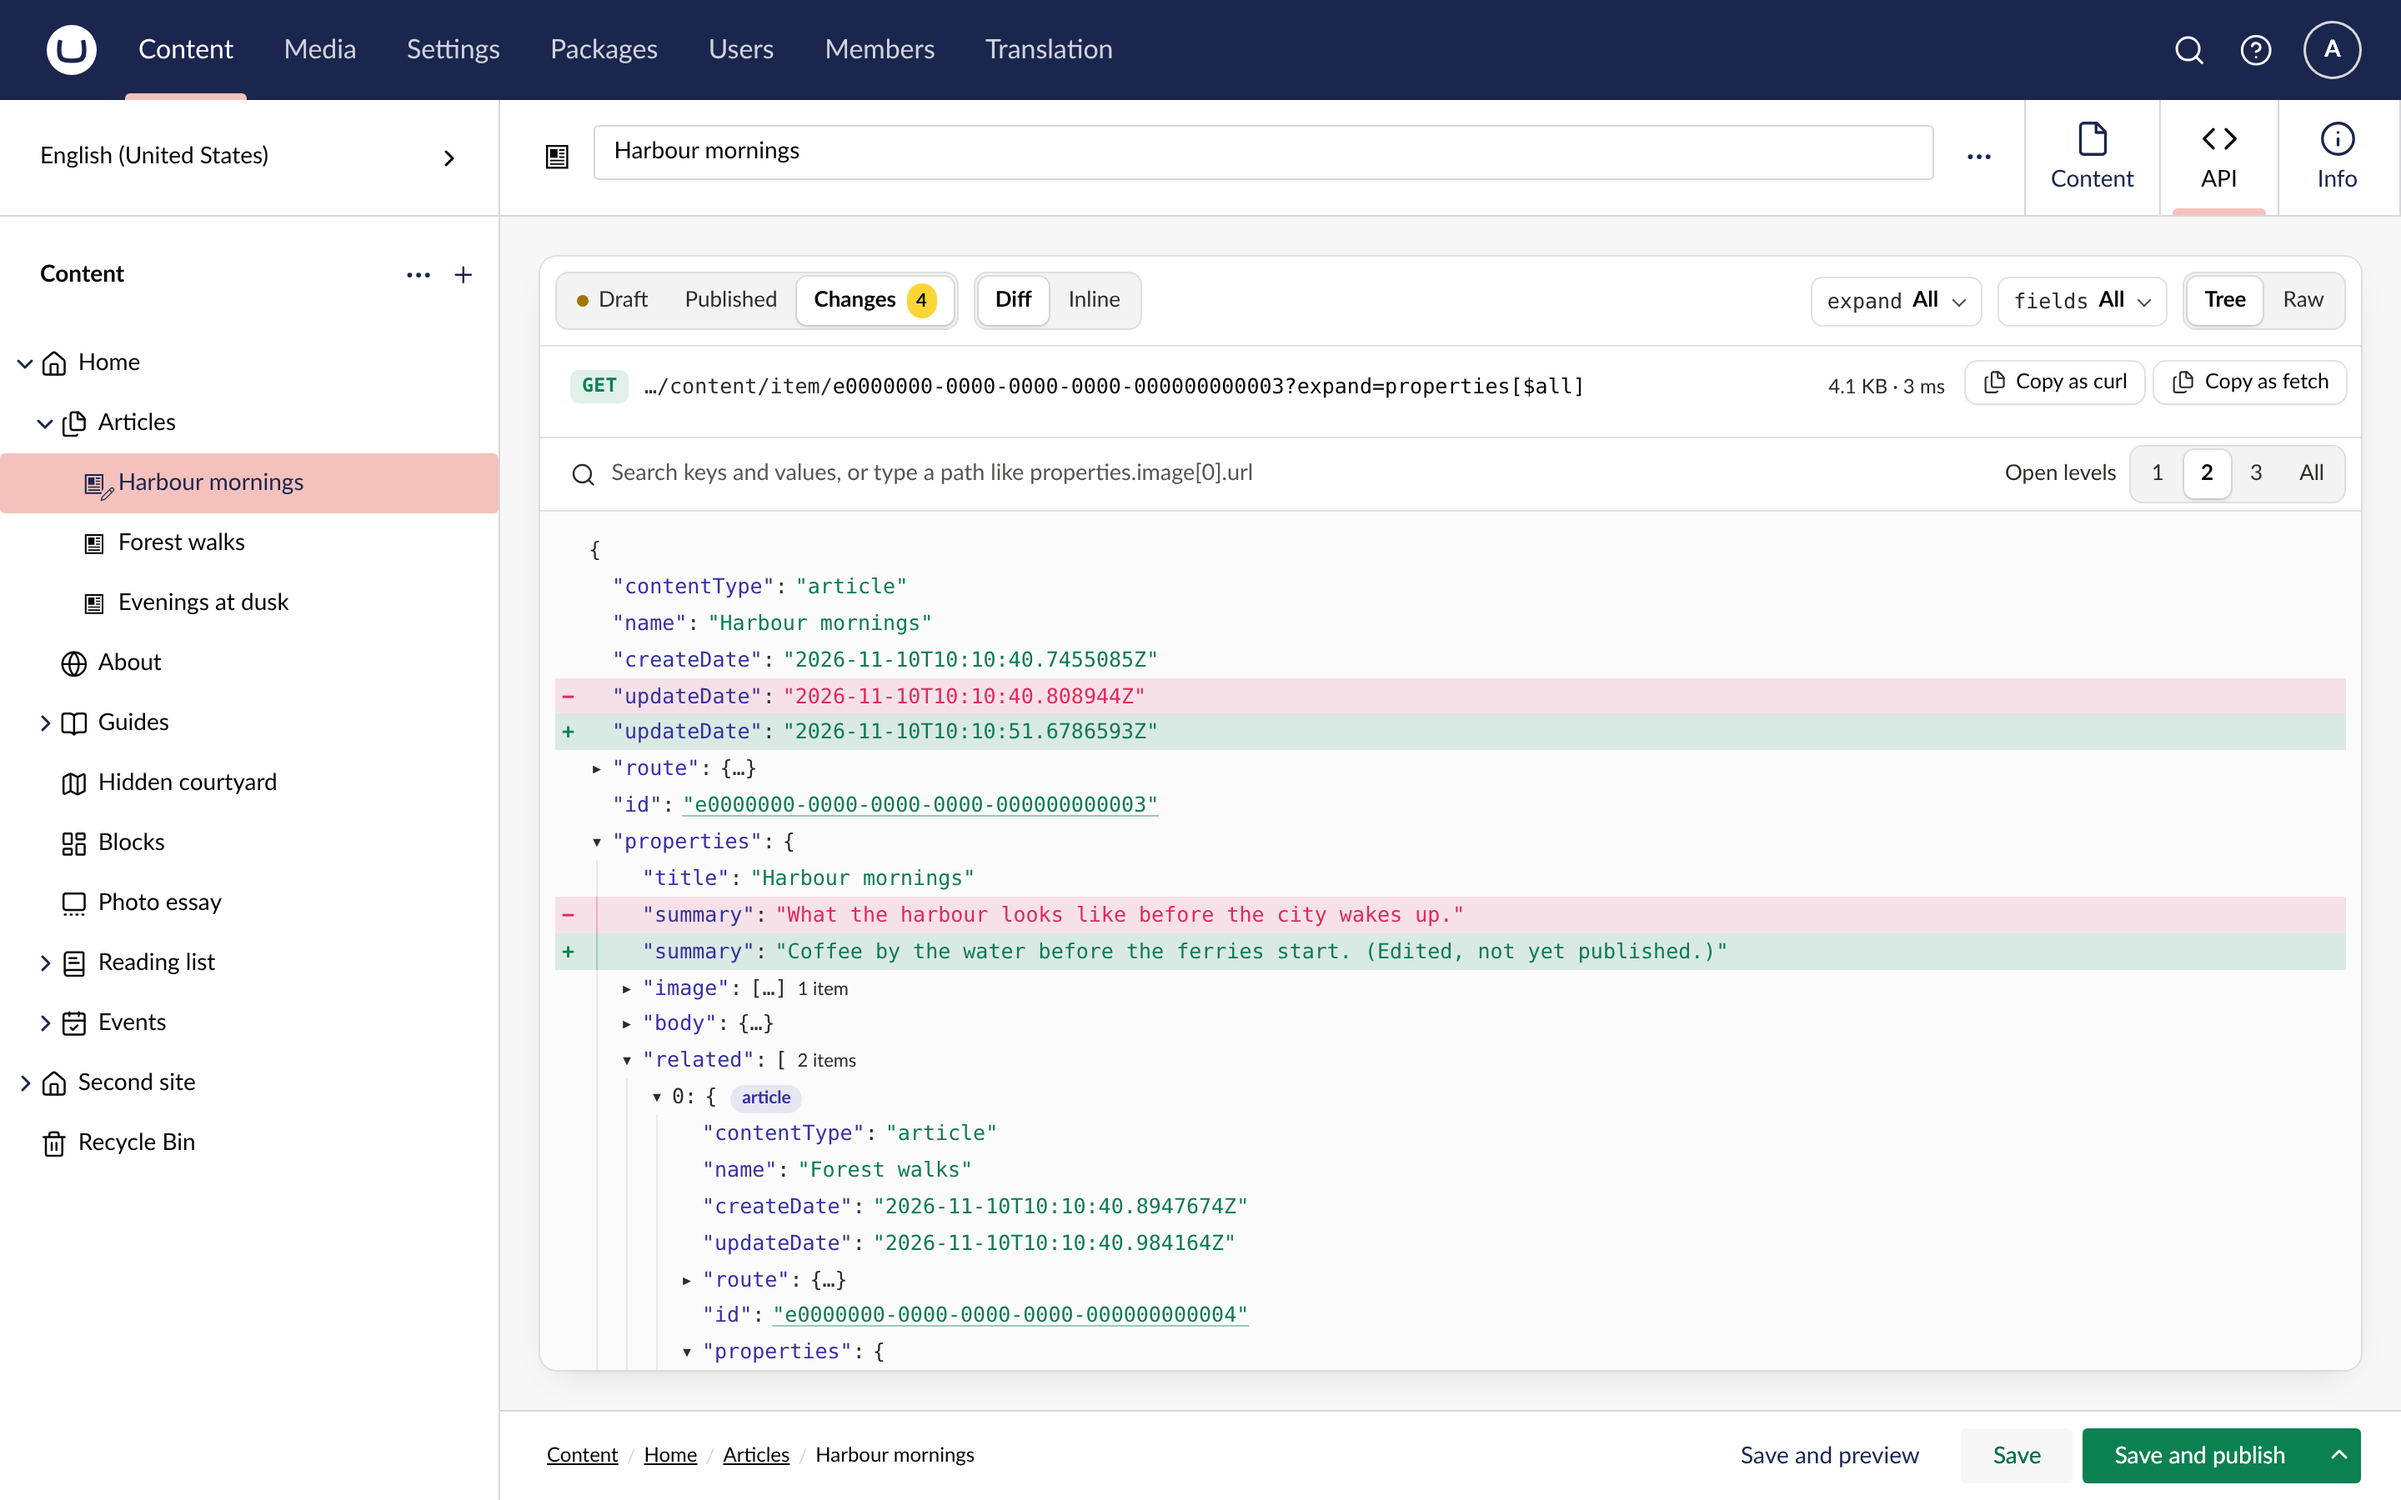
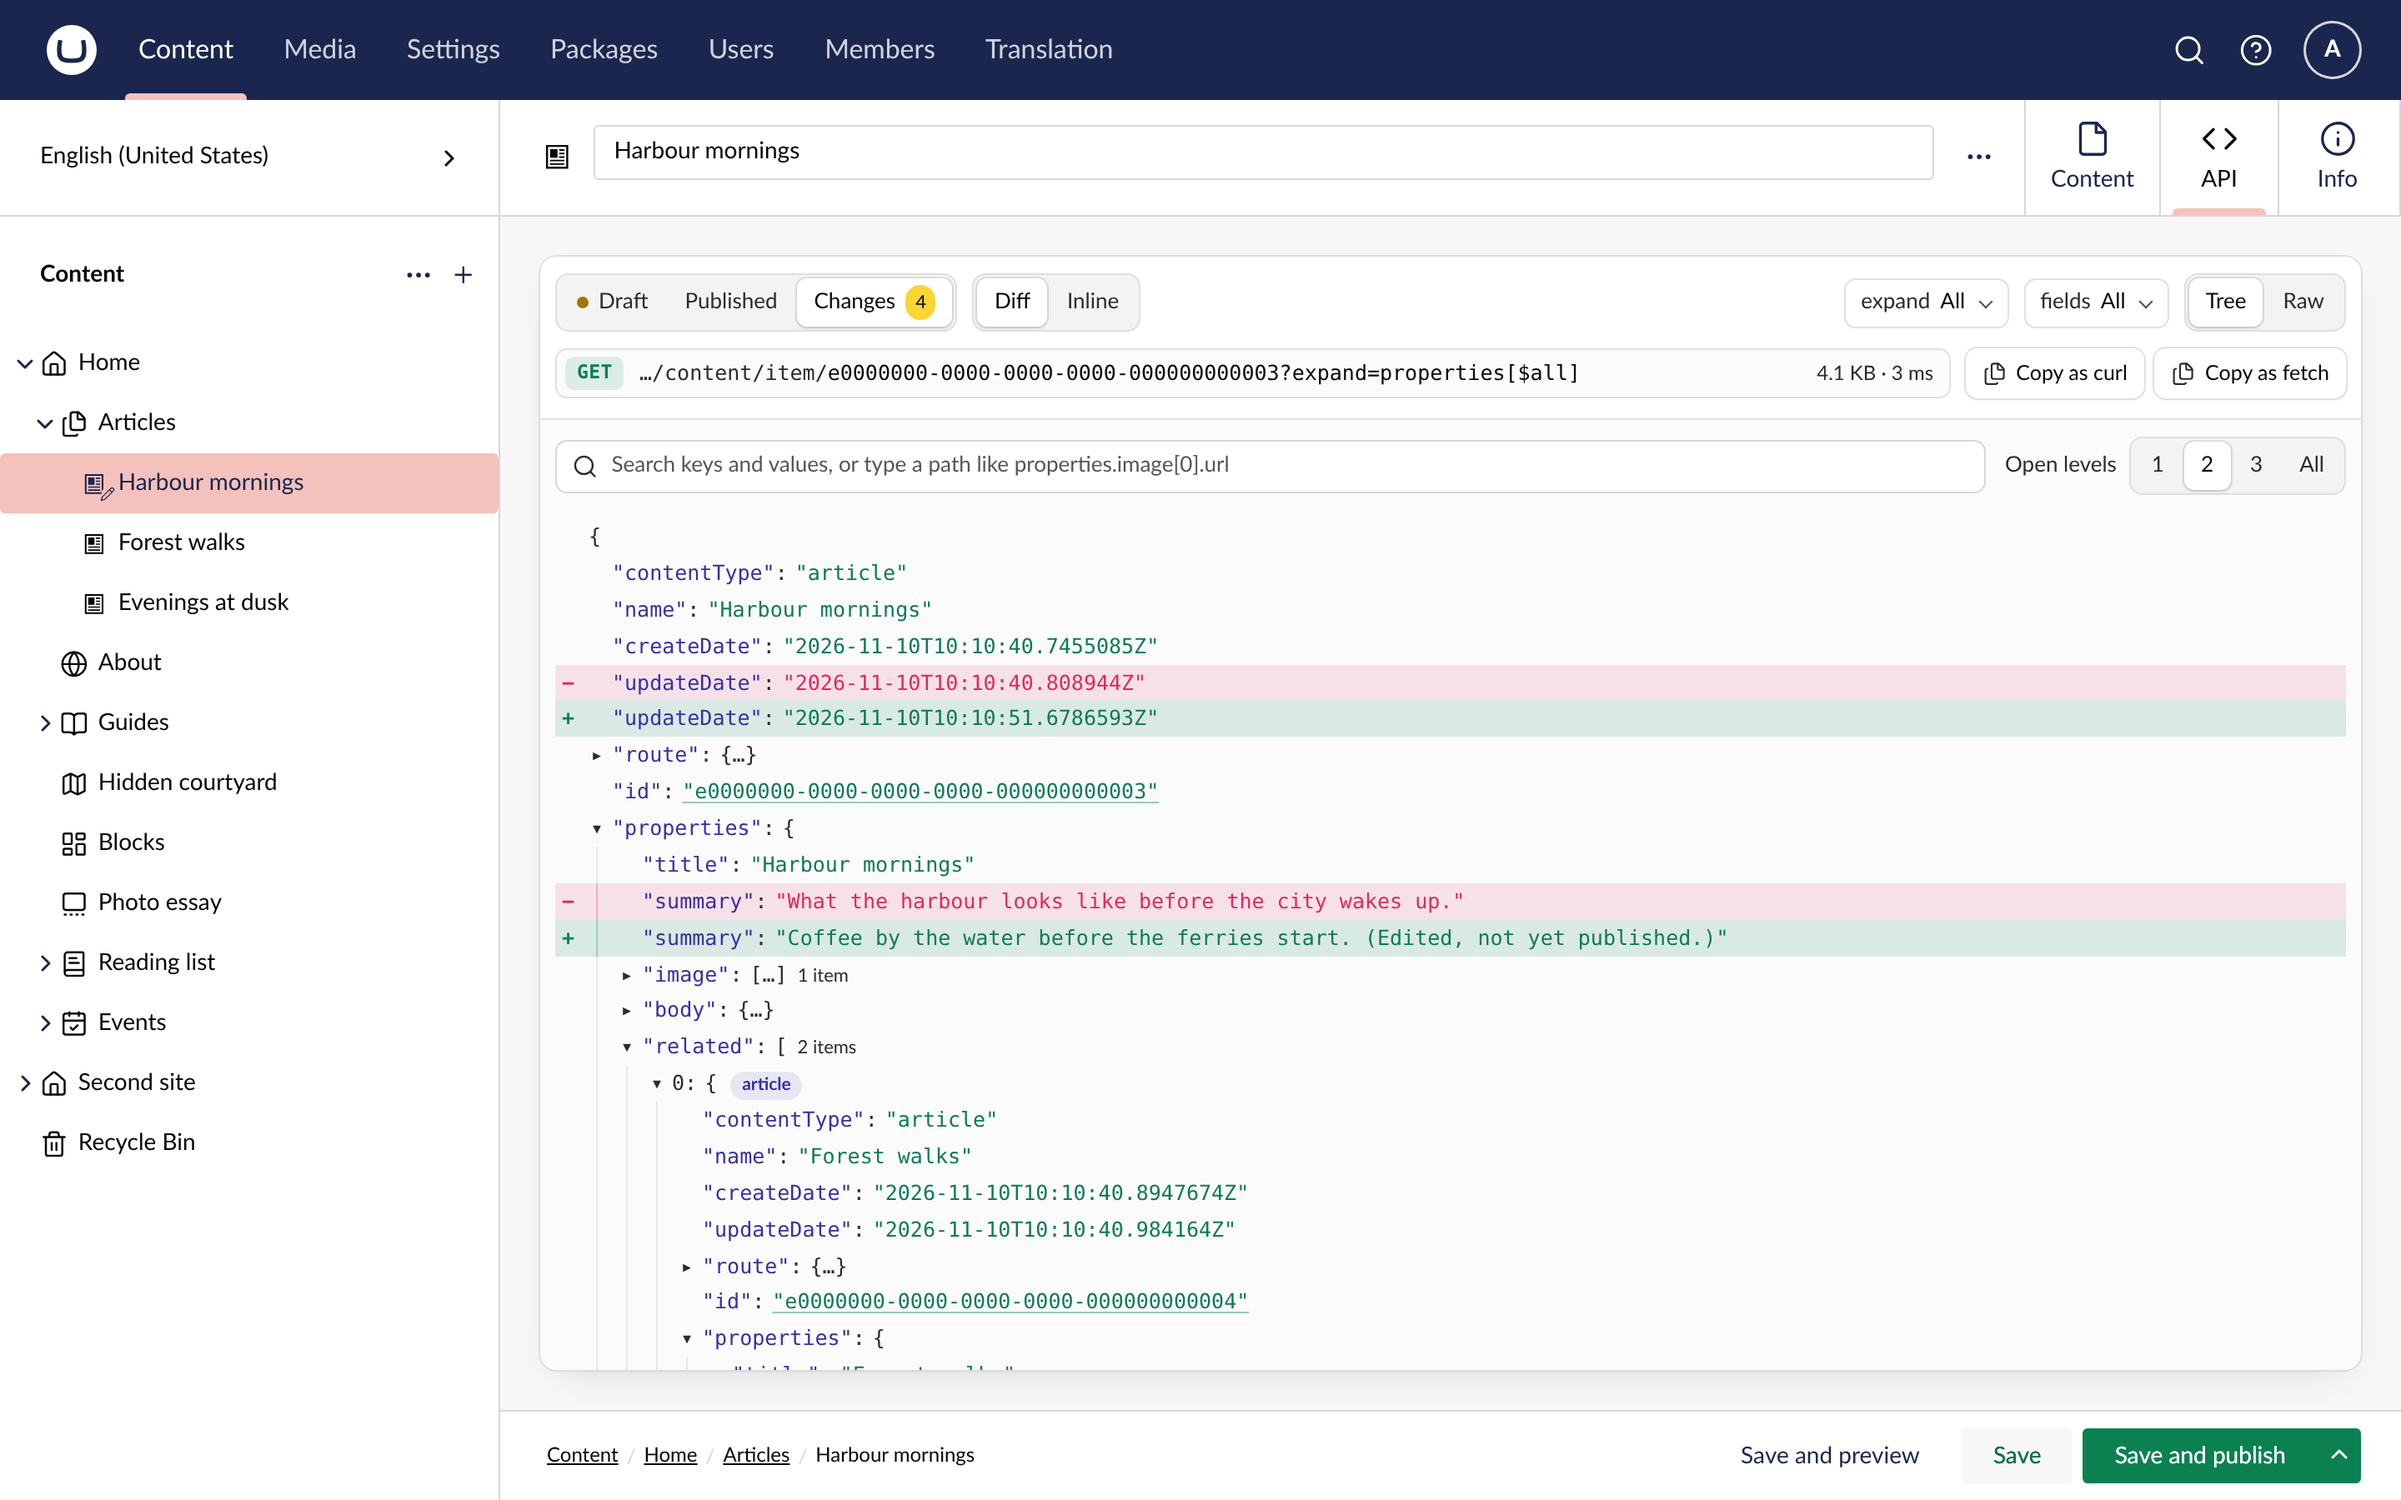
Merge the header bands and give search a field of its own
The controls and the request now share one header band, and the URL sits
in an address bar as tall as the copy buttons. Search is a bordered field
on the code with its own clear button, replacing the browser's blue one.
The expand and fields dropdowns use one font for label and value.

Changed region(s): [[0.2188, 0.3733, 1.0, 0.9022], [0.2188, 0.1867, 0.6562, 0.3422], [0.75, 0.1867, 0.9688, 0.3422]]

diff --git a/src/TheBuilder.DeliveryApiInspector/Client/src/inspector-view.element.ts b/src/TheBuilder.DeliveryApiInspector/Client/src/inspector-view.element.ts
@@ -305,6 +305,7 @@ export class InspectorViewElement extends UmbElementMixin(LitElement) {
     const fieldsChoice = this._fieldsOpen || this._fieldsPick.length ? "pick" : "all";
     return html`
       <section class="panel" aria-label="Response">
+        <div class="head">
         <div class="chrome">
           ${isContent
             ? html`<div class="segmented" role="group" aria-label="Version"><span class="track">
@@ -357,17 +358,24 @@ export class InspectorViewElement extends UmbElementMixin(LitElement) {
             : nothing}
         </div>
         </div>
+        </div>
+        ${offNote ? html`<p class="note">${offNote}</p>` : nothing}
         ${this._view === "tree"
           ? html`<div class="find">
-              <uui-icon name="icon-search"></uui-icon>
-              <input class="search" type="search" aria-label="Search keys and values" placeholder="Search keys and values, or type a path like properties.image[0].url"
-                .value=${this._query} @input=${(event: InputEvent) => (this._query = (event.target as HTMLInputElement).value)}
-                @keydown=${(event: KeyboardEvent) => { if (event.key === "Enter") { event.preventDefault(); this.shadowRoot?.querySelector("thebuilder-json-tree")?.next(event.shiftKey ? -1 : 1); } }} />
-              <span class="hits">${this.#hitsLabel()}</span>
+              <label class="search-field">
+                <uui-icon name="icon-search"></uui-icon>
+                <input class="search" type="text" role="searchbox" aria-label="Search keys and values" placeholder="Search keys and values, or type a path like properties.image[0].url"
+                  .value=${this._query} @input=${(event: InputEvent) => (this._query = (event.target as HTMLInputElement).value)}
+                  @keydown=${(event: KeyboardEvent) => {
+                    if (event.key === "Enter") { event.preventDefault(); this.shadowRoot?.querySelector("thebuilder-json-tree")?.next(event.shiftKey ? -1 : 1); }
+                    else if (event.key === "Escape" && this._query) { event.preventDefault(); this._query = ""; }
+                  }} />
+                <span class="hits">${this.#hitsLabel()}</span>
+                ${this._query ? html`<button type="button" class="clear" aria-label="Clear search" title="Clear search" @click=${(event: Event) => { event.preventDefault(); this._query = ""; this.shadowRoot?.querySelector<HTMLInputElement>("input.search")?.focus(); }}></button>` : nothing}
+              </label>
               ${this.#segmented("Open levels", this._depth, [[1, "1", "Show the tree one level deep"], [2, "2", "Two levels deep"], [3, "3", "Three levels deep"], [99, "All", "Open every level"]], (value) => { this._depth = value; this.shadowRoot?.querySelector("thebuilder-json-tree")?.reset(); })}
             </div>`
           : nothing}
-        ${offNote ? html`<p class="note">${offNote}</p>` : nothing}
         <div class="body">${this.#body()}</div>
       </section>
     `;
@@ -423,14 +431,18 @@ export class InspectorViewElement extends UmbElementMixin(LitElement) {
         background: var(--inspector-code);
         box-shadow: 0 0 0 1px var(--inspector-line), 0 1px 2px rgb(0 0 0 / 0.04), 0 8px 24px -12px rgb(0 0 0 / 0.18);
       }
+      /* One header band for the controls and the request, so the panel reads as header plus code. */
+      .head {
+        display: grid;
+        gap: 10px;
+        padding: 10px var(--uui-size-space-3) 12px;
+        background: var(--uui-color-surface);
+        border-bottom: 1px solid var(--inspector-line);
+      }
       .panel-header {
         display: flex;
         align-items: flex-start;
-        gap: var(--uui-size-space-4);
-        min-height: 36px;
-        padding: var(--uui-size-space-3) var(--uui-size-space-3) var(--uui-size-space-3) var(--uui-size-space-5);
-        background: var(--uui-color-surface);
-        border-bottom: 1px solid var(--inspector-line);
+        gap: var(--uui-size-space-3);
       }
       .body {
         position: relative;
@@ -444,9 +456,6 @@ export class InspectorViewElement extends UmbElementMixin(LitElement) {
         flex-wrap: wrap;
         gap: var(--uui-size-space-3);
         align-items: center;
-        padding: var(--uui-size-space-3);
-        background: var(--uui-color-surface);
-        border-bottom: 1px solid var(--inspector-line);
       }
       .spacer {
         flex: 1;
@@ -470,11 +479,10 @@ export class InspectorViewElement extends UmbElementMixin(LitElement) {
         outline: 2px solid var(--uui-color-focus);
       }
       .select .label {
-        font: 12.5px var(--uui-font-monospace, monospace);
         color: var(--uui-color-text-alt);
       }
       .select .value {
-        font-weight: 600;
+        font-weight: 500;
         color: var(--uui-color-text);
       }
       /* The native select covers the whole pill unseen, so a click anywhere opens its options and the
@@ -494,16 +502,71 @@ export class InspectorViewElement extends UmbElementMixin(LitElement) {
         margin-top: -4px;
         pointer-events: none;
       }
+      /* The search sits on the code itself, as a field of its own, not as another band. */
       .find {
         display: flex;
         align-items: center;
-        gap: var(--uui-size-space-3);
-        padding: 4px var(--uui-size-space-3) 4px var(--uui-size-space-5);
-        background: var(--uui-color-surface);
-        border-bottom: 1px solid var(--inspector-line);
+        gap: var(--uui-size-space-4);
+        padding: 10px var(--uui-size-space-3) 2px;
       }
-      .find > uui-icon {
+      .search-field {
+        display: flex;
+        flex: 1;
+        min-width: 160px;
+        align-items: center;
+        gap: 8px;
+        height: 32px;
+        box-sizing: border-box;
+        padding: 0 6px 0 10px;
+        border-radius: 7px;
+        background: var(--uui-color-surface);
+        box-shadow: inset 0 0 0 1px var(--uui-color-border);
+        cursor: text;
+      }
+      .search-field:hover {
+        box-shadow: inset 0 0 0 1px var(--uui-color-border-emphasis, var(--uui-color-border-standalone));
+      }
+      .search-field:focus-within {
+        box-shadow: inset 0 0 0 1px var(--uui-color-focus), 0 0 0 3px color-mix(in srgb, var(--uui-color-focus) 18%, transparent);
+      }
+      .search-field > uui-icon {
+        flex: none;
+        font-size: 14px;
         color: var(--uui-color-text-alt);
+      }
+      /* Our own clear button, drawn as a muted cross, in place of the browser's blue one. */
+      .clear {
+        all: unset;
+        flex: none;
+        position: relative;
+        width: 20px;
+        height: 20px;
+        border-radius: 50%;
+        cursor: pointer;
+        color: var(--uui-color-text-alt);
+      }
+      .clear::before,
+      .clear::after {
+        content: "";
+        position: absolute;
+        left: 5px;
+        right: 5px;
+        top: 50%;
+        height: 1.5px;
+        margin-top: -0.75px;
+        border-radius: 1px;
+        background: currentColor;
+        transform: rotate(45deg);
+      }
+      .clear::after {
+        transform: rotate(-45deg);
+      }
+      .clear:hover {
+        color: var(--uui-color-text);
+        background: var(--inspector-track);
+      }
+      .clear:focus-visible {
+        outline: 2px solid var(--uui-color-focus);
       }
       /* A track with the chosen option raised out of it, so the current choice reads at a glance. */
       /* The label sits outside the track as plain text, so only the options look clickable. */
@@ -545,7 +608,7 @@ export class InspectorViewElement extends UmbElementMixin(LitElement) {
       .segmented button[aria-pressed="true"] {
         background: var(--uui-color-surface);
         color: var(--uui-color-text);
-        font-weight: 600;
+        font-weight: 500;
         box-shadow: 0 1px 2px rgb(0 0 0 / 0.12), 0 0 0 1px var(--inspector-line);
       }
       .segmented button:hover:not([disabled]):not([aria-pressed="true"]) {
@@ -576,20 +639,17 @@ export class InspectorViewElement extends UmbElementMixin(LitElement) {
       .search {
         all: unset;
         flex: 1;
-        min-width: 160px;
-        height: 34px;
-        font-size: 13.5px;
+        min-width: 0;
+        height: 100%;
+        font-size: 13px;
         color: var(--uui-color-text);
-      }
-      .search::-webkit-search-cancel-button {
-        display: none;
       }
       .search::placeholder {
         color: var(--uui-color-text-alt);
         opacity: 0.8;
       }
       .hits {
-        padding: 0 var(--uui-size-space-3);
+        padding: 0 4px;
         font-size: 12px;
         color: var(--uui-color-text-alt);
         white-space: nowrap;
@@ -597,9 +657,9 @@ export class InspectorViewElement extends UmbElementMixin(LitElement) {
       .picker {
         display: grid;
         gap: var(--uui-size-space-2);
-        padding: var(--uui-size-space-3) var(--uui-size-space-5);
-        border-bottom: 1px solid var(--inspector-line);
-        background: var(--uui-color-surface);
+        padding: var(--uui-size-space-3) var(--uui-size-space-4);
+        border-radius: 8px;
+        background: var(--inspector-track);
       }
       .picker-head {
         display: flex;
@@ -636,13 +696,18 @@ export class InspectorViewElement extends UmbElementMixin(LitElement) {
         flex: 1;
         font: 12.5px/1.5 var(--uui-font-monospace, monospace);
       }
-      /* As tall as the copy buttons, so the URL lines up with them whether the headers are open or not. */
+      /* An address bar as tall as the copy buttons, with the same space above and below the URL. */
       .line {
         display: flex;
         gap: var(--uui-size-space-3);
         align-items: center;
-        min-height: 30px;
+        height: 30px;
+        box-sizing: border-box;
         min-width: 0;
+        padding: 0 4px 0 6px;
+        border-radius: 7px;
+        background: var(--inspector-code);
+        box-shadow: inset 0 0 0 1px var(--inspector-line);
       }
       .method {
         padding: 1px 7px;
@@ -669,6 +734,7 @@ export class InspectorViewElement extends UmbElementMixin(LitElement) {
         color: var(--uui-color-text-alt);
         font-family: var(--uui-font-family);
         font-size: 12px;
+        padding-right: 6px;
       }
       .headers-toggle {
         all: unset;
@@ -677,11 +743,11 @@ export class InspectorViewElement extends UmbElementMixin(LitElement) {
         gap: 7px;
         align-items: center;
         white-space: nowrap;
-        padding: 5px 10px 5px 12px;
-        border-radius: 7px;
-        font: 500 12.5px/1.2 var(--uui-font-family);
+        height: 22px;
+        padding: 0 8px;
+        border-radius: 5px;
+        font: 500 12px/1 var(--uui-font-family);
         color: var(--uui-color-text-alt);
-        box-shadow: inset 0 0 0 1px var(--inspector-line);
       }
       .headers-toggle:hover,
       .headers-toggle[aria-expanded="true"] {
@@ -728,7 +794,9 @@ export class InspectorViewElement extends UmbElementMixin(LitElement) {
         gap: 6px;
         align-items: center;
         white-space: nowrap;
-        padding: 5px 10px;
+        height: 30px;
+        box-sizing: border-box;
+        padding: 0 10px;
         border-radius: 7px;
         font: 500 12.5px var(--uui-font-family);
         color: var(--uui-color-text);
@@ -751,6 +819,7 @@ export class InspectorViewElement extends UmbElementMixin(LitElement) {
       }
       .note {
         margin: 0;
+        border-bottom: 1px solid var(--inspector-line);
         padding: var(--uui-size-space-3) var(--uui-size-space-5);
         background: var(--uui-color-surface-alt);
         color: var(--uui-color-text-alt);
